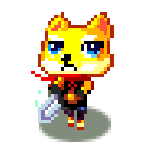
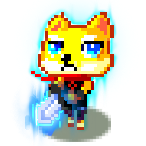
无敌状态 读取配置 棋盘满了结束游戏

Changed region(s): [[0.137, 0.0274, 0.8219, 0.9589], [0.5753, 0.274, 0.7123, 0.411]]

diff --git a/Assets/Source/Board/BoardPanelController.cs b/Assets/Source/Board/BoardPanelController.cs
@@ -109,7 +109,7 @@ public class BoardPanelController : UISingleton <BoardPanelController> {
 			secondWeightCount += weight;
 	}
 
-	private void RollEnemy () {
+	private bool RollEnemy () {
 		if (nextKeyRound == MainPanelController.Instance.Round) {
 			RefreshWeight ();
 			nextKeyRound = BoardManager.Instance.NextKeyRound (nextKeyRound);
@@ -123,15 +123,22 @@ public class BoardPanelController : UISingleton <BoardPanelController> {
 			if (enemy.IsAlive)
 				freePos.Remove (enemy.BoardPos);
 		}
-		if (freePos.Count <= 2) {
-			// 结束
-			return;
+
+		if (freePos.Count > 0) {
+			int posRound = Random.Range (0, freePos.Count);
+			CreateEnemy (freePos [posRound], GetRoundType (firstWeightCount, firstWeight));
+			freePos.RemoveAt (posRound);
 		}
-		int posRound = Random.Range (0, freePos.Count);
-		CreateEnemy (freePos [posRound], GetRoundType (firstWeightCount, firstWeight));
-		freePos.RemoveAt (posRound);
-		posRound = Random.Range (0, freePos.Count);
-		CreateEnemy (freePos [posRound], GetRoundType (secondWeightCount, secoudWeight));
+		if (freePos.Count > 0) {
+			int posRound = Random.Range (0, freePos.Count);
+			CreateEnemy (freePos [posRound], GetRoundType (secondWeightCount, secoudWeight));
+			freePos.RemoveAt (posRound);
+		}
+		if (freePos.Count == 0) {
+			IsOver = true;
+			return false;
+		}
+		return true;
 	}
 
 	private ChessmanType GetRoundType (int count, Dictionary <ChessmanType, int> weights) {
@@ -287,15 +294,12 @@ public class BoardPanelController : UISingleton <BoardPanelController> {
 			ResultPanelController.Create (MainPanelController.Instance.Score);
 			return;
 		}
-
+		isInRound = false;
 		foreach (EnemyController enemy in enemyList)
 			enemy.Clear ();
 		DogeNinja.Clear ();
-		isInRound = false;
-		if (!DogeNinja.IsAlive) {
-		} else {
-			RollEnemy ();
-		}
+		if (!RollEnemy ())
+			ResultPanelController.Create (MainPanelController.Instance.Score);
 	}
 
 	public EnemyController GetEnemy (Vector2 boardPos) {

diff --git a/Assets/Source/Board/Chessman/DogeNinjaController.cs b/Assets/Source/Board/Chessman/DogeNinjaController.cs
@@ -81,7 +81,7 @@ public class DogeNinjaController : ChessmanController {
 				seq.Append (HOTween.To (transform, MOVE_DURATION / 2, new TweenParms ().Prop ("localPosition", transform.localPosition)));
 				seq.PlayForward ();
 			} else {
-				HOTween.To (transform, MOVE_DURATION, new TweenParms ().Prop ("localPosition", BoardPanelController.Instance.TransFromBoardPos (pos)).Ease (EaseType.EaseOutQuad).OnComplete (() => OnMoveCompleted ()));
+				HOTween.To (transform, MOVE_DURATION, new TweenParms ().Prop ("localPosition", BoardPanelController.Instance.TransFromBoardPos (pos)).OnComplete (() => OnMoveCompleted ()));
 				BoardPos = pos;
 				SetSpriteDepth ();
 			}
@@ -89,8 +89,23 @@ public class DogeNinjaController : ChessmanController {
 	}
 
 	protected override void SetPerform () {
-		spriteAnimation.framesPerSecond = 5;
-		spriteAnimation.loop = true;
+		if (IsInvincible) {
+			if (Direction == MoveDirection.Left) {
+				performSprite.spriteName = "ninja_in_r";
+				performSprite.flip = UIBasicSprite.Flip.Horizontally;
+			} else if (Direction == MoveDirection.Right) {
+				performSprite.spriteName = "ninja_in_r";
+				performSprite.flip = UIBasicSprite.Flip.Nothing;
+			} else if (Direction == MoveDirection.Back) {
+				performSprite.spriteName = "ninja_in_b";
+				performSprite.flip = UIBasicSprite.Flip.Nothing;
+			} else if (Direction == MoveDirection.Forward) {
+				performSprite.spriteName = "ninja_in_f";
+				performSprite.flip = UIBasicSprite.Flip.Nothing;
+			}
+			return;
+		}
+
 		if (Direction == MoveDirection.None || !IsMoveable) {
 			spriteAnimation.enabled = false;
 			performSprite.spriteName = "ninja_idle";
@@ -144,6 +159,7 @@ public class DogeNinjaController : ChessmanController {
 			Hide ();
 		} else if (status == DogeNinjaStatus.Invincible) {
 			IsInvincible = true;
+			SetPerform ();
 		} else if (status == DogeNinjaStatus.StopMove) {
 			Direction = MoveDirection.None;
 		}

diff --git a/Assets/Source/UIUtil/ResourcesManager.cs b/Assets/Source/UIUtil/ResourcesManager.cs
@@ -8,19 +8,15 @@ public class ResourcesManager : UISingleton <ResourcesManager> {
 		return Resources.Load<GameObject> (path);
 	}
 
-	public string[] ReadConfigFile (string fileName) {
+	public string ReadConfigFile (string fileName) {
 		// 外部优先
 		string path = string.Format ("{0}/../Config/{1}", Application.dataPath, fileName);
 		if (File.Exists (path)) {
-			return File.ReadAllLines (path);
+			return File.ReadAllText (path);
 		}
 
 		path = string.Format ("Config/{0}", fileName);
 		TextAsset textAsset = Resources.Load <TextAsset> (path);
-		Debug.LogWarning (textAsset.text);
-		string text = textAsset.text;
-		text.Replace ("\r\n", "\n");
-		string[] split = text.Split ('\n');
-		return split;
+		return textAsset.text;
 	}
 }

diff --git a/Assets/Source/Board/BoardManager.cs b/Assets/Source/Board/BoardManager.cs
@@ -28,7 +28,7 @@ public class BoardManager : UISingleton <BoardManager> {
 	}
 
 	private void InitConfig () {
-		string content = FileUtility.ReadConfigFile (CONFIG_PATH);
+		string content = ResourcesManager.Instance.ReadConfigFile (CONFIG_PATH);
 		JsonValue json = new JsonValue (content);
 		KeyRoundList = json.GetIntList ("KeyRound");
 		List<ChessmanConfig> configList = json.GetList <ChessmanConfig> ("ChessmanNode");

diff --git a/Assets/Source/Main/MainPanelController.cs b/Assets/Source/Main/MainPanelController.cs
@@ -63,6 +63,8 @@ public class MainPanelController : UISingleton <MainPanelController> {
 	}
 
 	public void ShowScore (int scoreCount, int level) {
+		if (score == 0)
+			return;
 		GameObject obj =NGUITools.AddChild (scoreObj.transform.parent.gameObject, scoreObj);
 		obj.GetComponent<ScoreController> ().Init (scoreCount, level);
 	}
